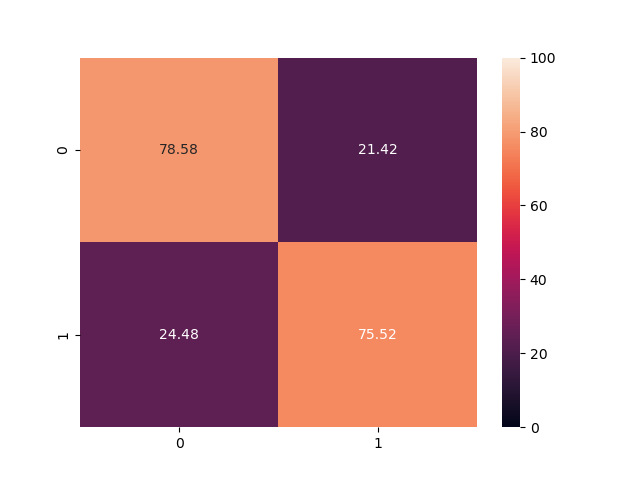
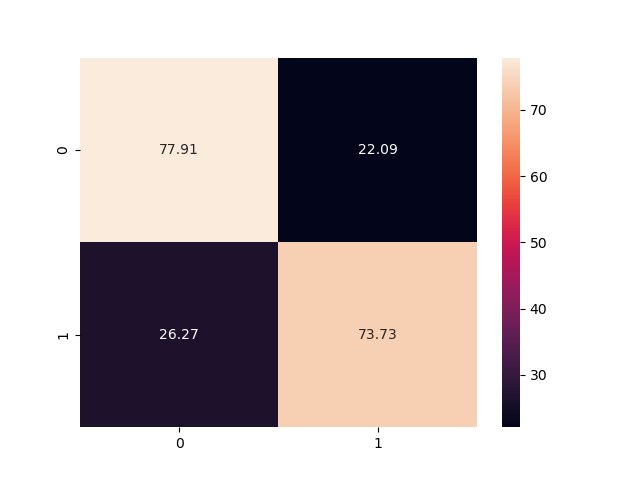
modifica o train

diff --git a/train.py b/train.py
@@ -93,7 +93,7 @@ val_data = ImageLoader(
     )
 val_data = DataLoader(
     val_data,
-    batch_size=256,
+    batch_size=128,
     shuffle=False,
     num_workers=4,
     prefetch_factor=2,
@@ -110,8 +110,8 @@ for epoch in epoch_bar:
     batch_bar = tqdm(data,position=1,leave=False)
     # print(torch.cuda.memory_summary(gpu))
 
-    if epoch == args.epochs//2:
-        opt.param_groups[0]['lr'] = 1e-4
+    if epoch == args.epochs//3:
+        opt.param_groups[0]['lr'] = 1e-5
         for p in model.parameters():
             p.requires_grad_(True)
         model.train()
